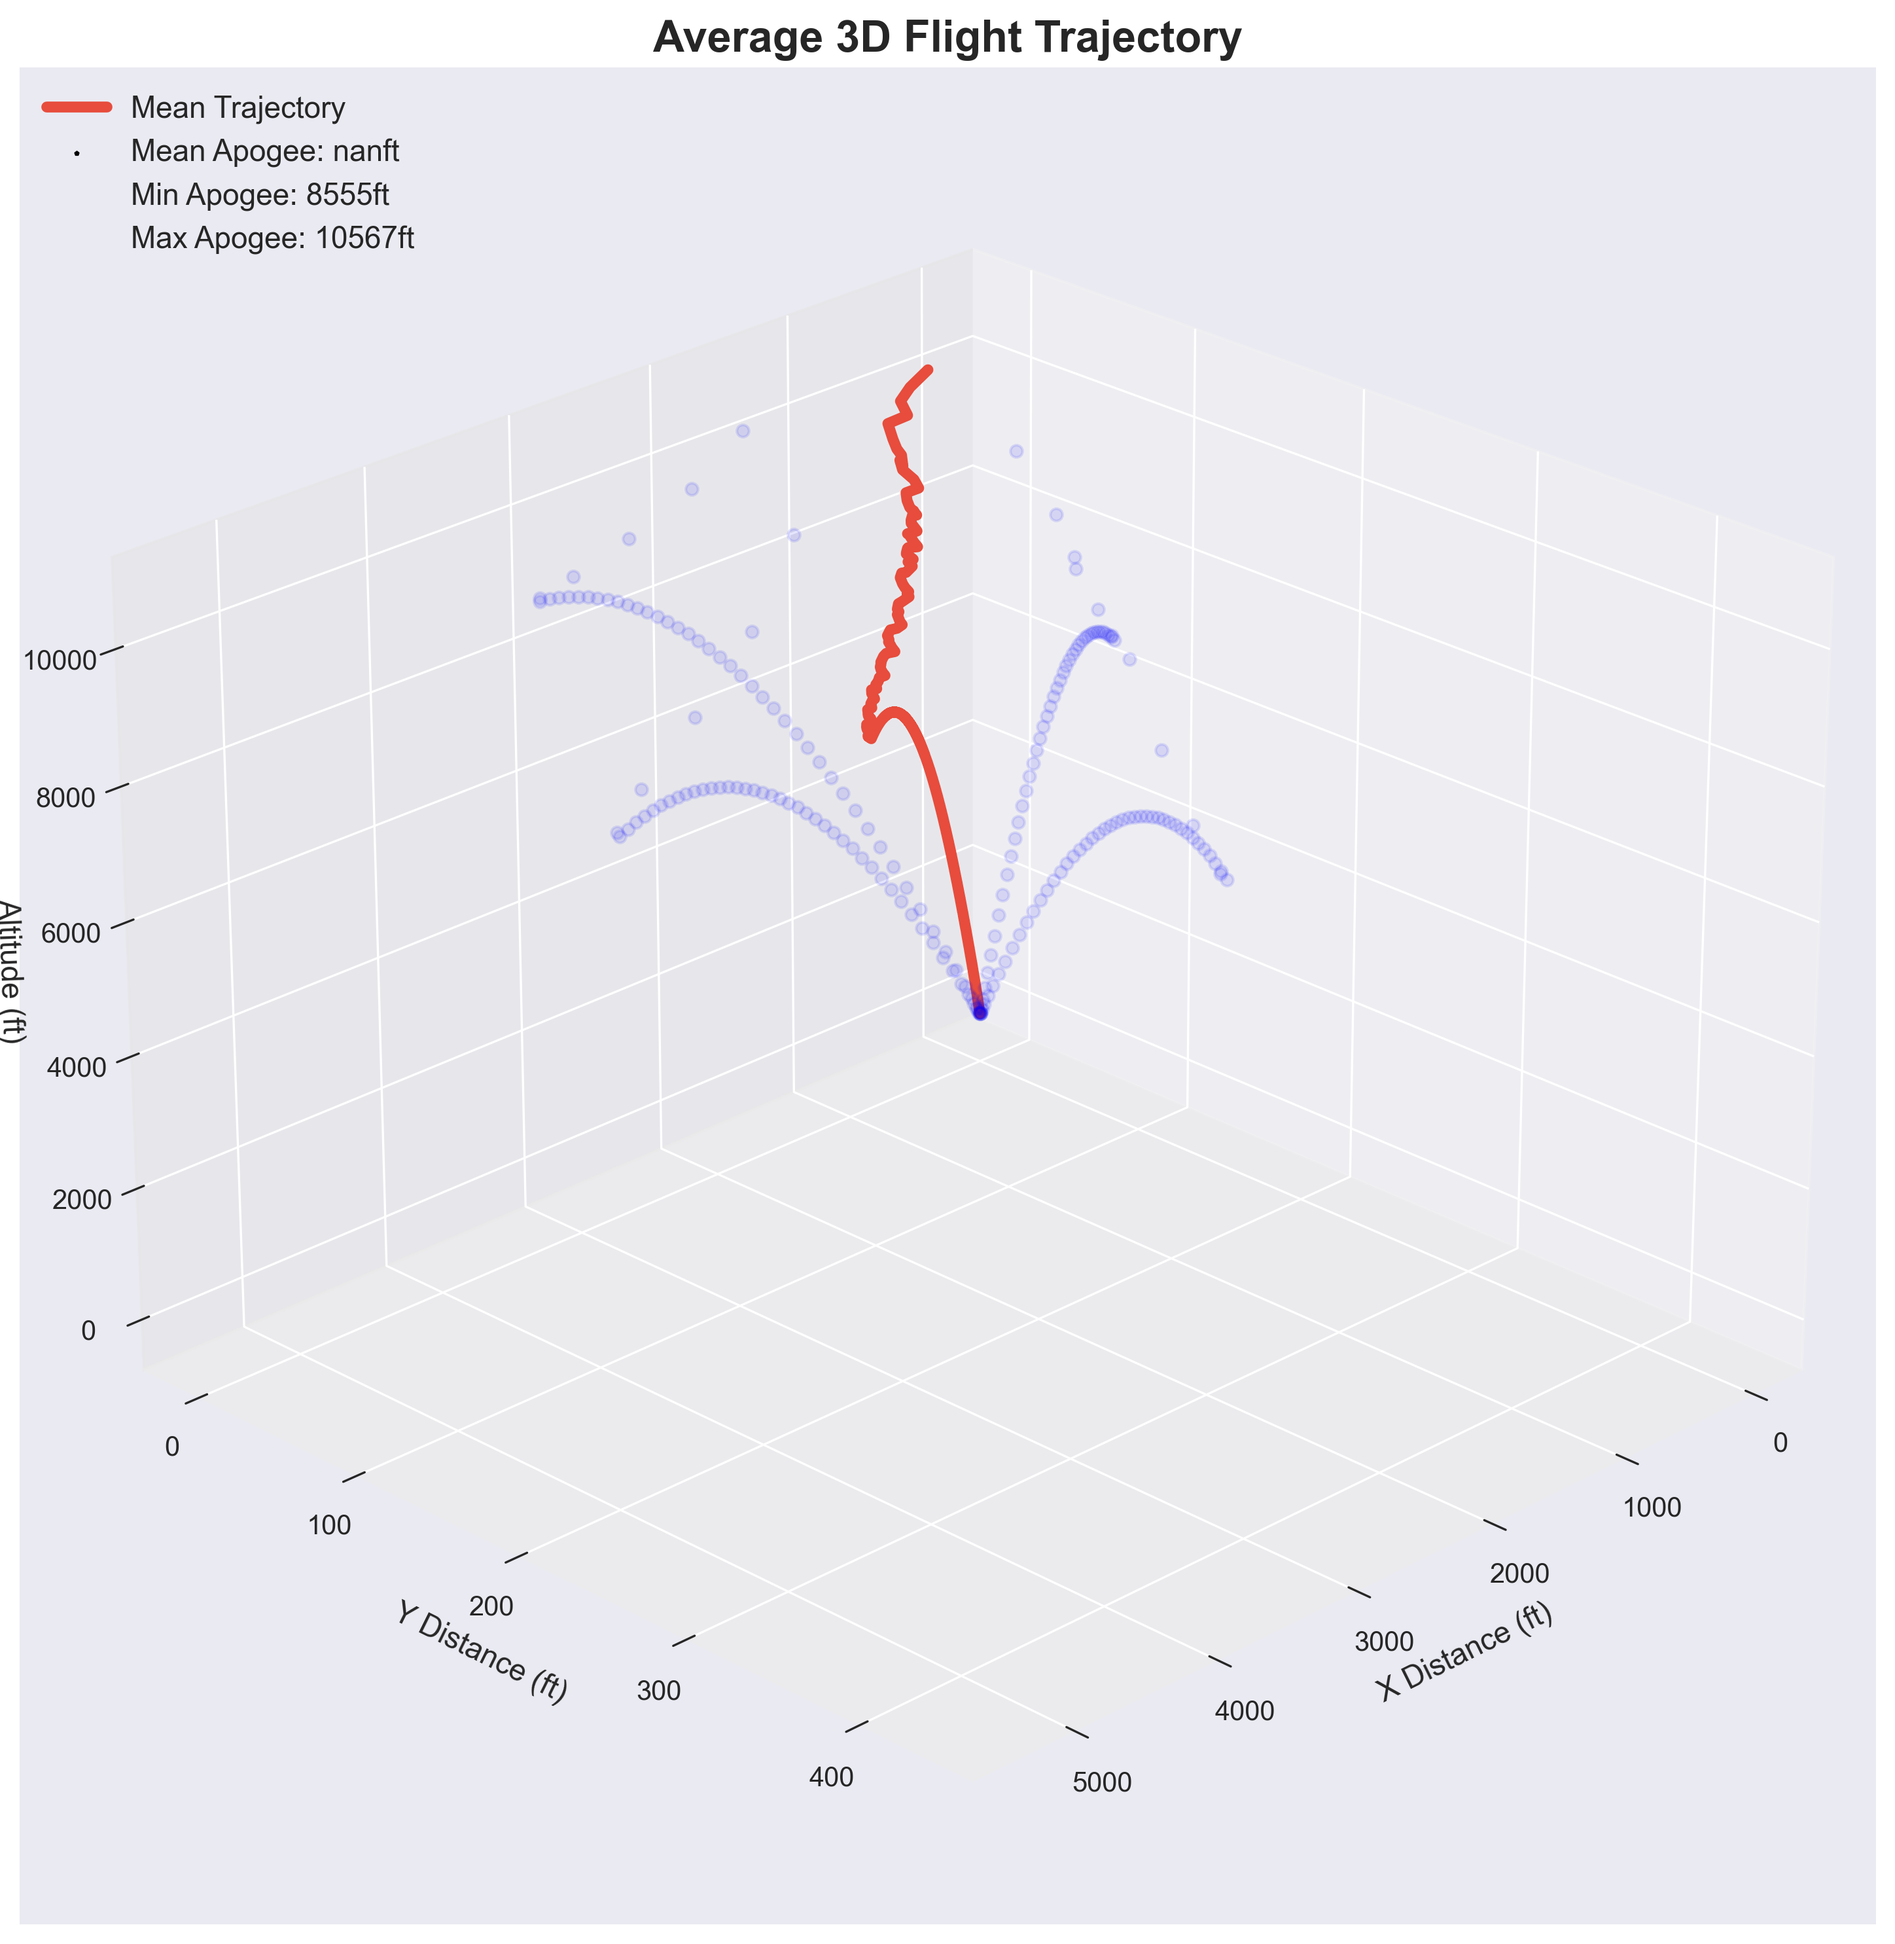
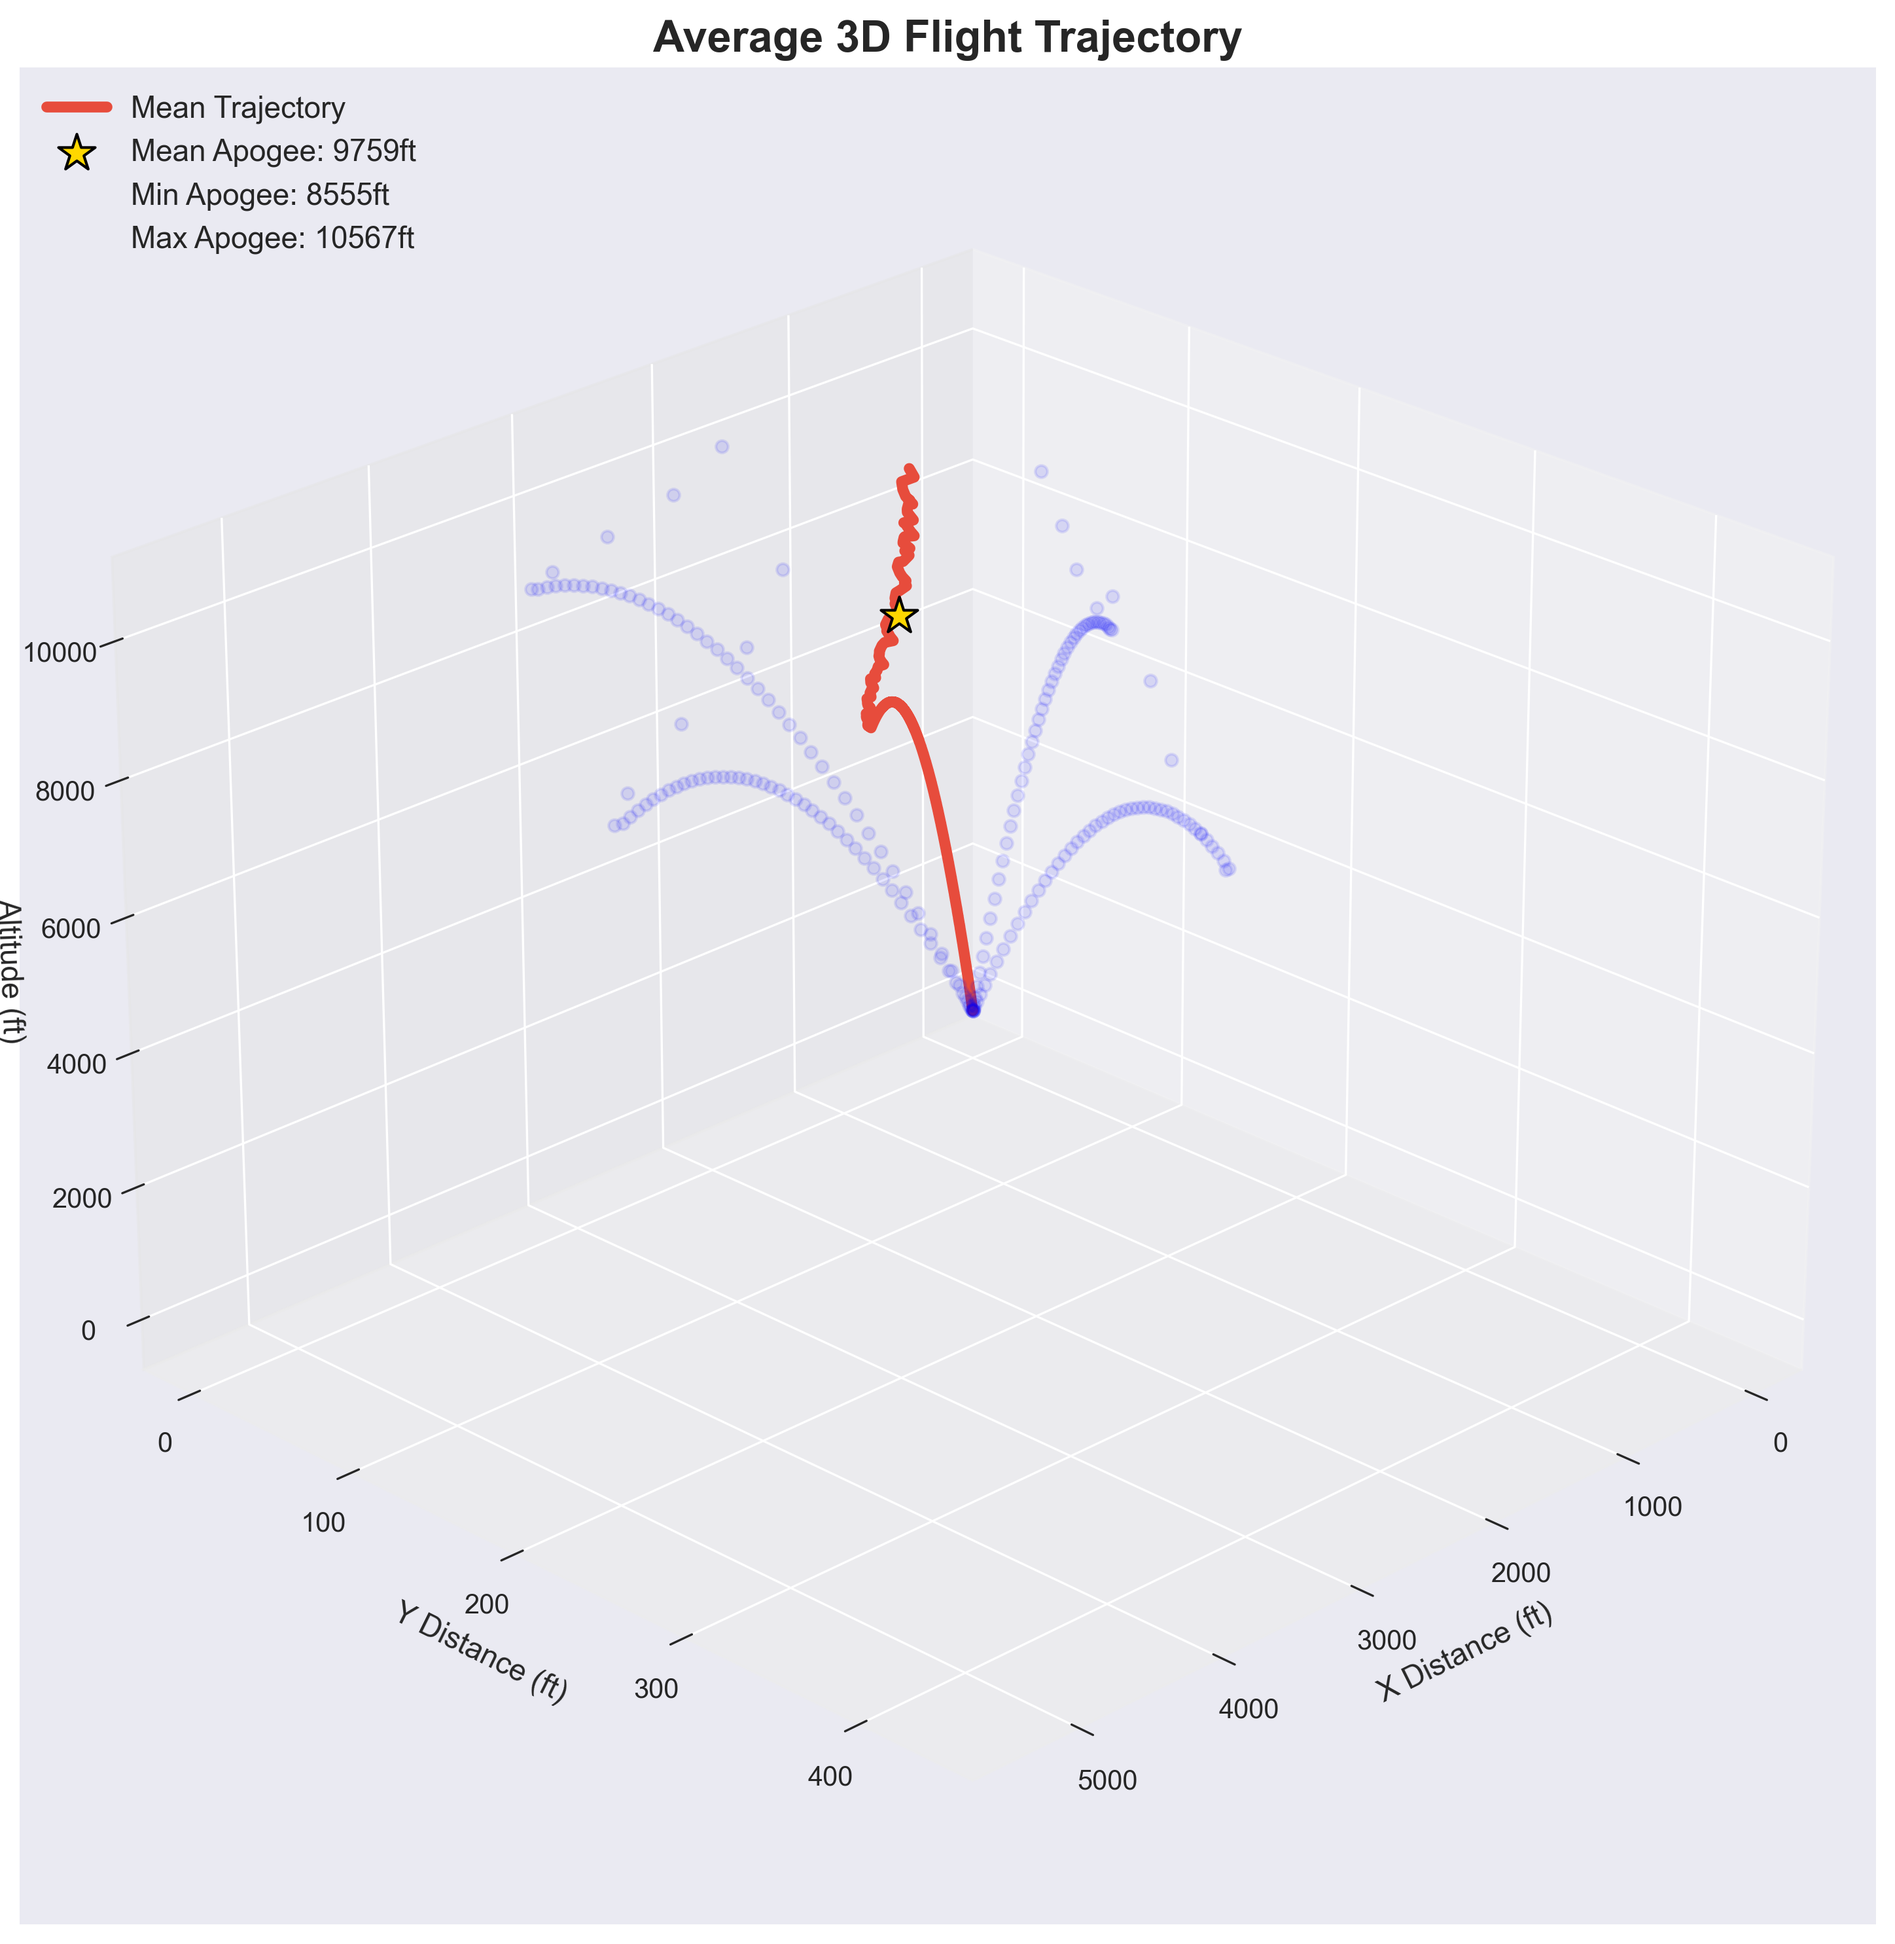
graph fixes

diff --git a/scripts/visualization_suite.py b/scripts/visualization_suite.py
@@ -487,21 +487,34 @@ def plot_2d_average_flight(traj_data: Dict):
     mean_alt = np.nanmean(altitude, axis=0)
     std_alt = np.nanstd(altitude, axis=0)
     
+    # CUTOFF: Truncate when < 10% of flights are active to avoid survivorship bias
+    active_counts = np.sum(~np.isnan(altitude), axis=0)
+    cutoff_threshold = int(altitude.shape[0] * 0.1)
+    cutoff_indices = np.where(active_counts < cutoff_threshold)[0]
+    cutoff_idx = cutoff_indices[0] if len(cutoff_indices) > 0 else len(timesteps)
+    
+    plot_timesteps = timesteps[:cutoff_idx]
+    plot_mean_alt = mean_alt[:cutoff_idx]
+    plot_std_alt = std_alt[:cutoff_idx]
+    
     # Plot mean with confidence bands
-    ax.plot(timesteps, mean_alt, color='#2c3e50', linewidth=3, label='Mean Trajectory')
-    ax.fill_between(timesteps, 
-                    np.maximum(0, mean_alt - std_alt), 
-                    mean_alt + std_alt, 
+    ax.plot(plot_timesteps, plot_mean_alt, color='#2c3e50', linewidth=3, label='Mean Trajectory')
+    ax.fill_between(plot_timesteps, 
+                    np.maximum(0, plot_mean_alt - plot_std_alt), 
+                    plot_mean_alt + plot_std_alt, 
                     color='#3498db', alpha=0.3, label='±1 Std Dev')
-    ax.fill_between(timesteps, 
-                    np.maximum(0, mean_alt - 2*std_alt), 
-                    mean_alt + 2*std_alt, 
+    ax.fill_between(plot_timesteps, 
+                    np.maximum(0, plot_mean_alt - 2*plot_std_alt), 
+                    plot_mean_alt + 2*plot_std_alt, 
                     color='#3498db', alpha=0.15, label='±2 Std Dev')
     
-    # Mark mean apogee
-    apogee_idx = np.argmax(mean_alt)
-    ax.scatter([timesteps[apogee_idx]], [mean_alt[apogee_idx]], 
-               s=150, c='red', zorder=5, marker='*', label=f'Mean Apogee: {mean_alt[apogee_idx]:.0f}ft')
+    # Mark mean apogee (using scalar mean of all apogees, not peak of average curve)
+    apogees = traj_data['apogee']
+    true_mean_apogee = np.mean(apogees)
+    mean_apogee_time = np.mean(traj_data['apogee_time'])
+    
+    ax.scatter([mean_apogee_time], [true_mean_apogee], 
+               s=150, c='red', zorder=5, marker='*', label=f'Mean Apogee: {true_mean_apogee:.0f}ft')
     
     # Add min/max altitude to legend
     apogees = traj_data['apogee']
@@ -624,6 +637,20 @@ def plot_3d_average_flight(traj_data: Dict):
     std_Y = np.nanstd(Y, axis=0)
     std_Z = np.nanstd(Z, axis=0)
     
+    # CUTOFF: Truncate when < 10% of flights are active to avoid survivorship bias
+    active_counts = np.sum(~np.isnan(Z), axis=0)
+    cutoff_threshold = int(Z.shape[0] * 0.1)
+    cutoff_indices = np.where(active_counts < cutoff_threshold)[0]
+    cutoff_idx = cutoff_indices[0] if len(cutoff_indices) > 0 else Z.shape[1]
+    
+    # Truncate arrays
+    mean_X = mean_X[:cutoff_idx]
+    mean_Y = mean_Y[:cutoff_idx]
+    mean_Z = mean_Z[:cutoff_idx]
+    std_X = std_X[:cutoff_idx]
+    std_Y = std_Y[:cutoff_idx]
+    std_Z = std_Z[:cutoff_idx]
+    
     fig = plt.figure(figsize=(14, 10))
     ax = fig.add_subplot(111, projection='3d')
     
@@ -645,11 +672,20 @@ def plot_3d_average_flight(traj_data: Dict):
         ax.scatter([mean_X[i]], [mean_Y[i] - std_Y[i]], [mean_Z[i]], 
                    c='blue', alpha=0.1, s=20)
     
-    # Mark apogee
-    apogee_idx = np.argmax(mean_Z)
-    ax.scatter([mean_X[apogee_idx]], [mean_Y[apogee_idx]], [mean_Z[apogee_idx]], 
+    # Mark mean apogee (using scalar mean of all apogees)
+    # We need approximate X/Y for mean apogee time. Interpolate from mean X/Y trajectory
+    apogees = traj_data['apogee']
+    true_mean_apogee = np.mean(apogees)
+    mean_apogee_time = np.mean(traj_data['apogee_time'])
+    timesteps = traj_data['timesteps']
+    
+    # Values at mean apogee time
+    apogee_X = np.interp(mean_apogee_time, timesteps[:cutoff_idx], mean_X)
+    apogee_Y = np.interp(mean_apogee_time, timesteps[:cutoff_idx], mean_Y)
+    
+    ax.scatter([apogee_X], [apogee_Y], [true_mean_apogee], 
                s=200, c='gold', marker='*', edgecolors='black', linewidth=1,
-               label=f'Mean Apogee: {mean_Z[apogee_idx]:.0f}ft', zorder=10)
+               label=f'Mean Apogee: {true_mean_apogee:.0f}ft', zorder=10)
     
     # Add min/max altitude to legend
     apogees = traj_data['apogee']
